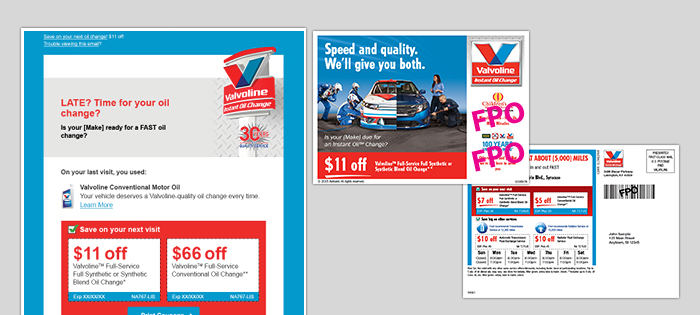
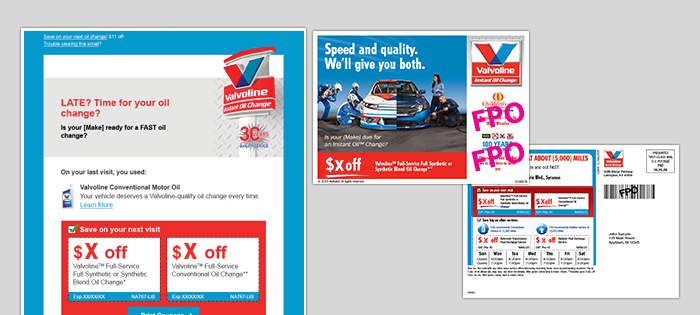
D1 - Any images with specific $$ references (i.e. $10) should be changed to mimic the PDFs where the $$ references show up as $xx
Other:
Some fixes in Store Program Data Js.

Changed region(s): [[0.66, 0.5714, 0.87, 0.8571], [0.09, 0.7429, 0.39, 0.8286], [0.45, 0.4857, 0.54, 0.5714]]

diff --git a/static/js/app/getStoreProgramData.js b/static/js/app/getStoreProgramData.js
@@ -40,14 +40,14 @@ var getStoreProgramData = (function ($) {
 					$('[data-enrolled="true"] .toggle-btn').addClass('active').prop('checked', 'checked');
 				}
 			}).done(function () {
-				return getTotals(result);
+				getTotals(result);
 			});
 			$.get(marcomFilePath + 'program-settings.mustache.html', function (templates) {
 				var template2 = $(templates).filter('.program-settings-template').html();
 				$('.program-settings-section').html(Mustache.render(template2, result));
-				return reloadCheckBoxes();
+				reloadCheckBoxes();
 			}).done(function () {
-				return setHashLinks(),
+				setHashLinks(),
 					programSettingsHandler();
 			}).promise().done(function () {
 				programManagementController.controller.init();
@@ -56,19 +56,15 @@ var getStoreProgramData = (function ($) {
 			$.get(marcomFilePath + 'proof-settings-tab.mustache.html', function (templates) {
 				var template3 = $(templates).filter('.proof-settings-tab-template').html();
 				$('.proof-settings-tab-section').html(Mustache.render(template3, result));
-				return;
 			}).done(function () {
 				programSettingsHandler();
-				return;
 			});
 			if ($('.quantity-limit-tab-section').length) {
 				$.get(marcomFilePath + 'quantity-limit-tab.mustache.html', function (templates) {
 					var template4 = $(templates).filter('.quantity-limit-tab-template').html();
 					$('.quantity-limit-tab-section').html(Mustache.render(template4, result));
-					return;
 				}).done(function () {
 					programSettingsHandler();
-					return;
 				});
 			}
 		},
@@ -140,10 +136,10 @@ var getStoreProgramData = (function ($) {
 			 **/
 			$('.filterable:visible .store-item[data-enrolled="true"] .store-cost .costEstimateTotal').each(function () {
 				var n = parseFloat($(this).text());
-				console.log("Found Total : " + n + " (" + typeof n + ")");
+				// console.log("Found Total : " + n + " (" + typeof n + ")");
 				newCostSum += (isNaN(n)) ? 0 : n;
 			}).promise().done(function () {
-				console.log("grandTotal is " + newCostSum + " (" + typeof newCostSum + ")");
+				// console.log("grandTotal is " + newCostSum + " (" + typeof newCostSum + ")");
 				var grandTotal = (isNaN(newCostSum)) ? "Not Available" : newCostSum.toFixed(2);
 				$('.grand-total .costEstimateTotal').text(grandTotal);
 			});
